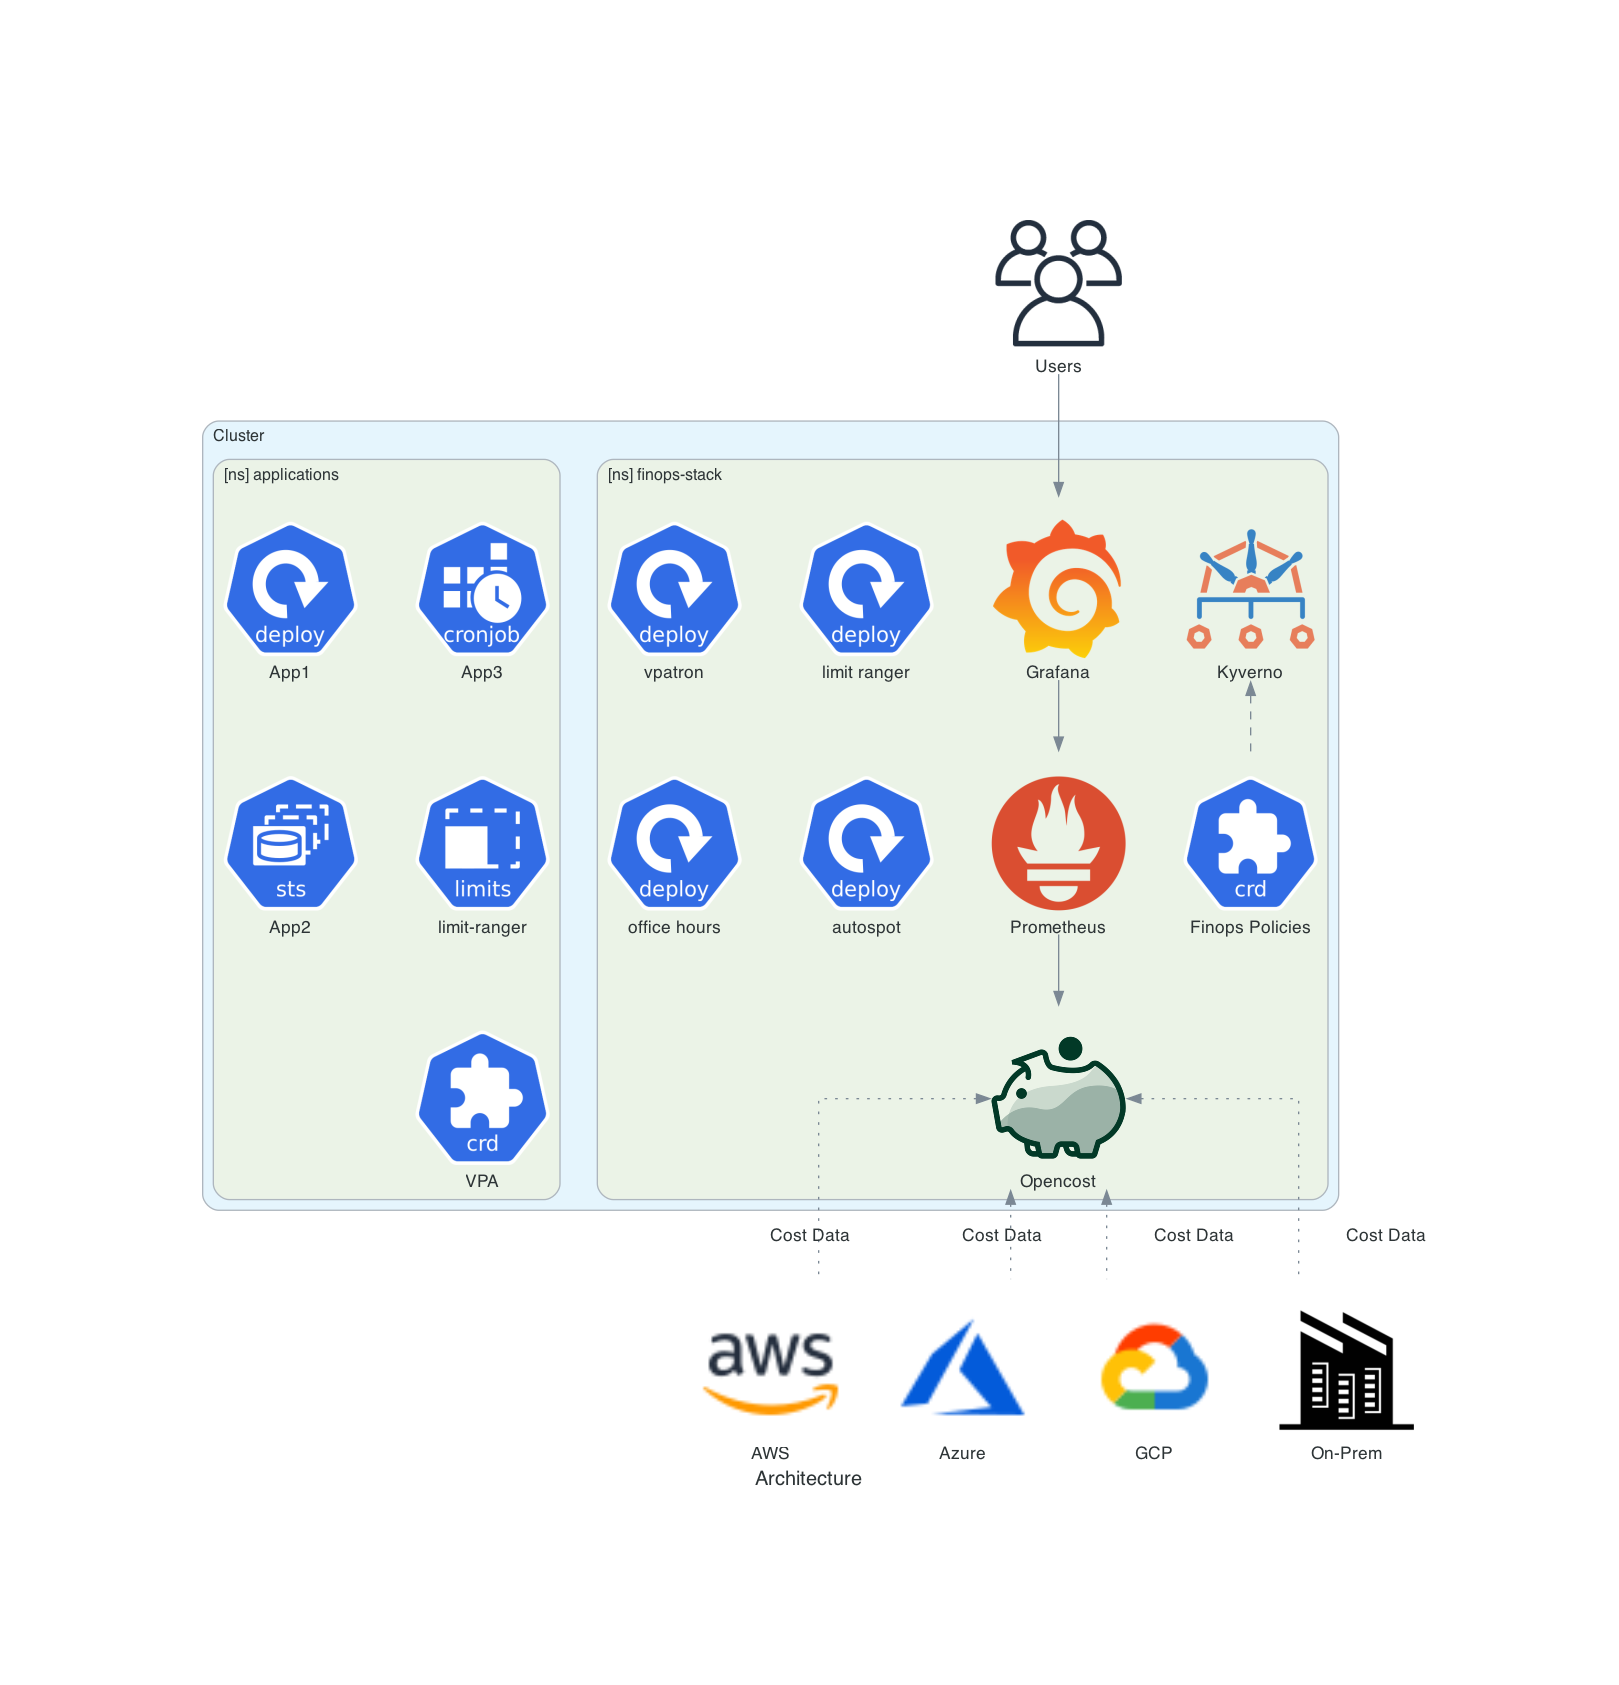
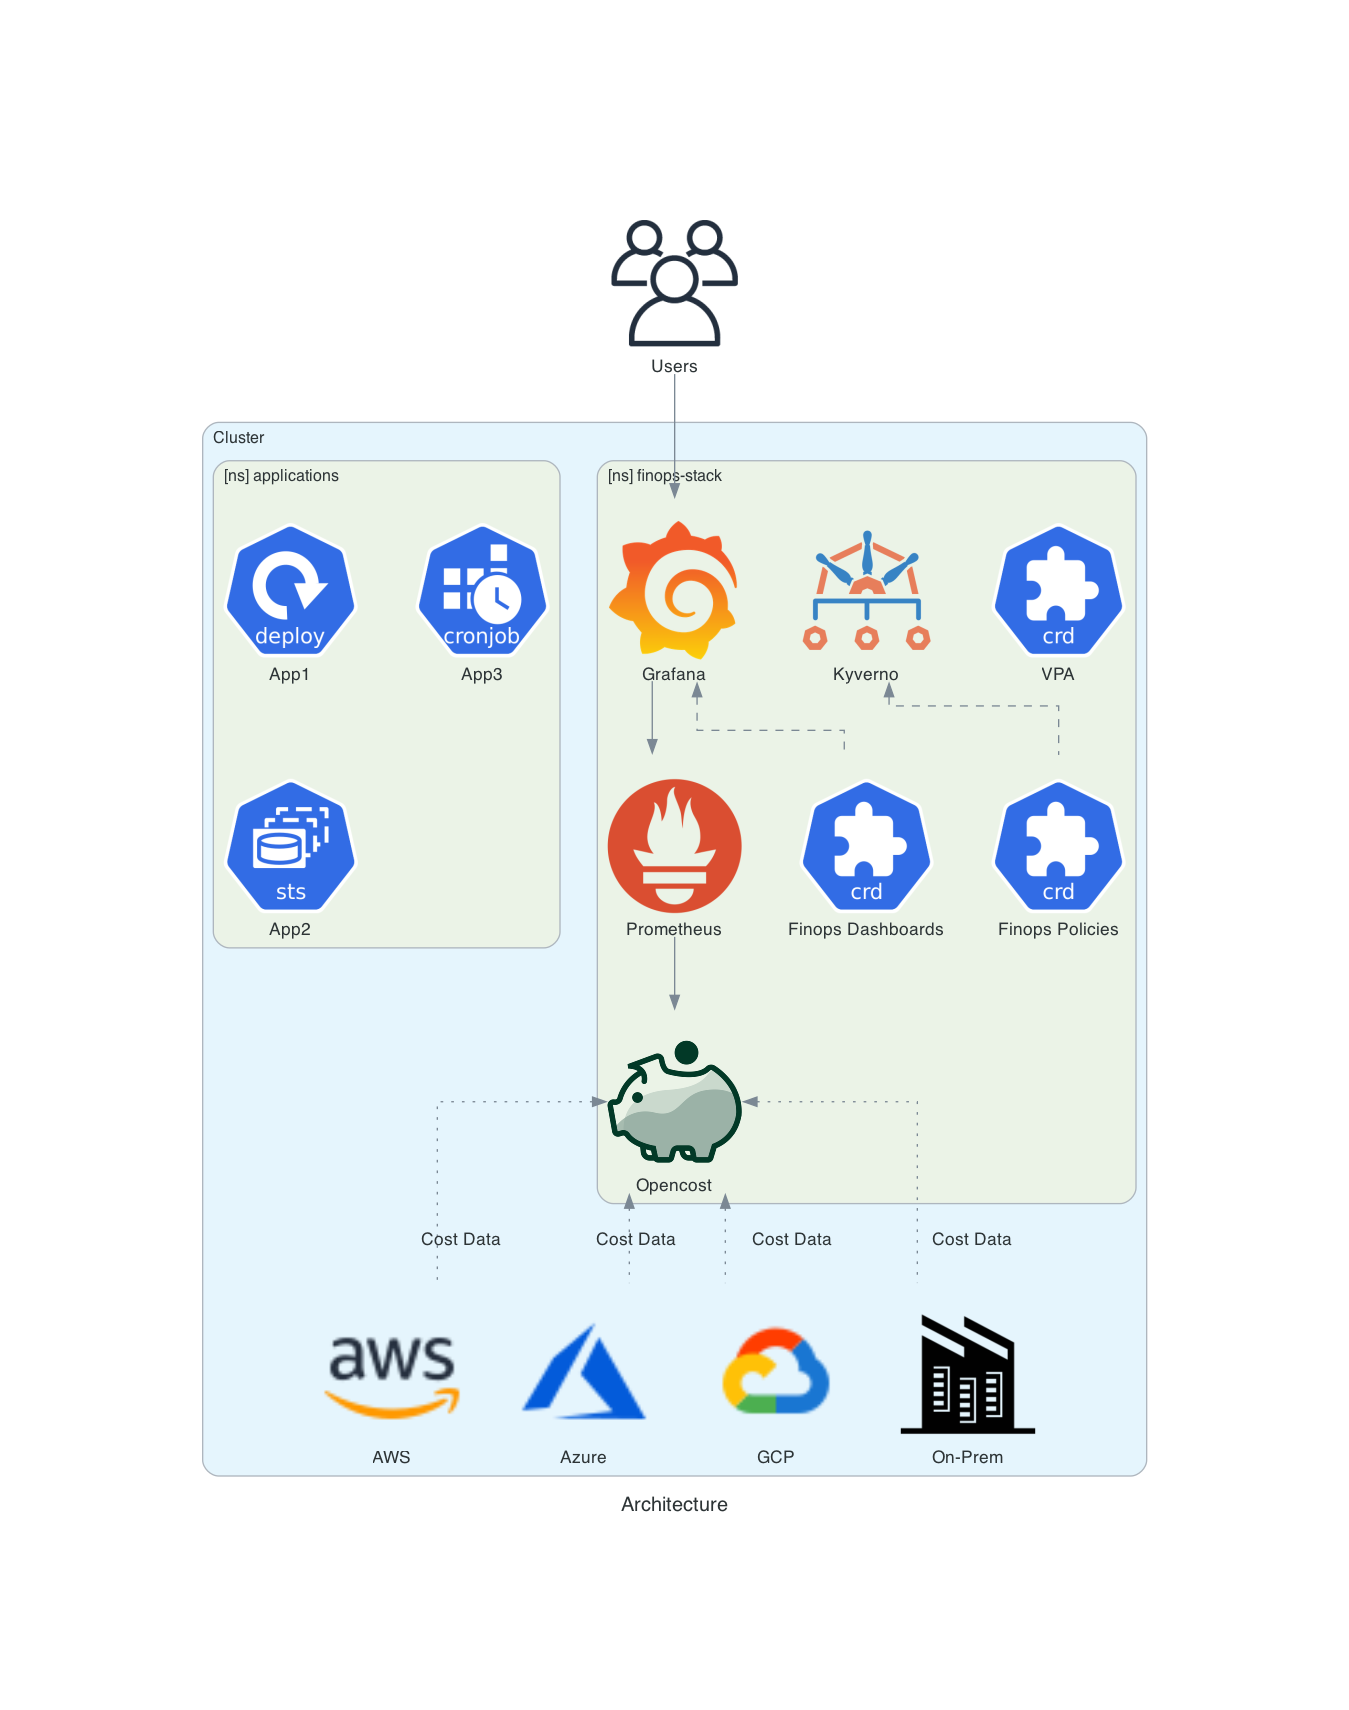
Update

Changed region(s): [[0.1245, 0.2469, 0.8718, 0.895], [0.4359, 0.1234, 0.5604, 0.216], [0.6227, 0.1234, 0.685, 0.216]]

diff --git a/scripts/architecture.py b/scripts/architecture.py
@@ -6,7 +6,6 @@ from diagrams.onprem.client import Users
 from diagrams.custom import Custom
 
 from diagrams.k8s.compute import Deploy, StatefulSet, Cronjob
-from diagrams.k8s.clusterconfig import LimitRange
 from diagrams.k8s.others import CRD
 from diagrams.generic.place import Datacenter
 
@@ -20,43 +19,39 @@ with Diagram("Architecture",
 
     with Cluster("Cluster"):
         with Cluster("[ns] applications"):
-          a1 = Deploy("App1")
-          a2 = StatefulSet("App2")
-          a3 = Cronjob("App3")
-          l = LimitRange("limit-ranger")
-          vpa = CRD("VPA")
-          a1-Edge(color="transparent")-a2-Edge(color="transparent")
-          a3-Edge(color="transparent")-l-Edge(color="transparent")-vpa
+            a1 = Deploy("App1")
+            a2 = StatefulSet("App2")
+            a3 = Cronjob("App3")
+            _ = a1 - Edge(color="transparent") - a2 - Edge(color="transparent")
         with Cluster("[ns] finops-stack"):
             prom = Prometheus("Prometheus")
             graf = Grafana("Grafana")
-            kyverno = Custom("Kyverno", os.getcwd()+"/resources/kyverno.png")
+            kyverno = Custom("Kyverno", os.getcwd() +
+                                "/resources/kyverno.png")
             finops_policies = CRD("Finops Policies")
             opencost = Custom("Opencost", os.getcwd() +
-                              "/resources/opencost.png")
+                                "/resources/opencost.png")
+            finops_dashboards = CRD("Finops Dashboards")
+            vpa = CRD("VPA")
 
-            vpatron = Deploy("vpatron")
-            officehours = Deploy("office hours")
-            limitranger = Deploy("limit ranger")
-            autospot = Deploy("autospot")
+            # _ = vpa - Edge(color="transparent") -
 
-            # Hack to get more in the same cluster
-            vpatron - Edge(color="transparent") - officehours
-            limitranger - Edge(color="transparent") - autospot
+        # _ = a3 - Edge(color="transparent") - vpa
 
         for i in range(0, 0):
             with Cluster(f"[ns] Application {i}"):
                 Deploy(f"Application {i}")
 
-    aws = Custom("AWS", os.getcwd()+'/resources/aws.png')
-    azure = Custom("Azure", os.getcwd()+'/resources/azure.png')
-    gcp = Custom("GCP", os.getcwd()+'/resources/google-cloud.png')
-    onprem = Datacenter("On-Prem")
+        aws = Custom("AWS", os.getcwd()+'/resources/aws.png')
+        azure = Custom("Azure", os.getcwd()+'/resources/azure.png')
+        gcp = Custom("GCP", os.getcwd()+'/resources/google-cloud.png')
+        onprem = Datacenter("On-Prem")
 
-    users >> graf
-    graf >> prom
-    kyverno << Edge(style="dashed") << finops_policies
-    prom >> opencost
+        _ = users >> graf
+        _ = graf >> prom
+        _ = graf << Edge(style="dashed") << finops_dashboards
+        _ = kyverno << Edge(style="dashed") << finops_policies
+        _ = prom >> opencost
 
-    for i in [aws, azure, gcp, onprem]:
-        opencost << Edge(label="Cost Data", style='dotted') << i
+        for i in [aws, azure, gcp, onprem]:
+            _ = opencost << Edge(label="Cost Data", style='dotted') << i

diff --git a/chart/README.md b/chart/README.md
@@ -1,6 +1,6 @@
 # finops-stack
 
-![Version: 0.0.2](https://img.shields.io/badge/Version-0.0.2-informational?style=flat-square) ![Type: application](https://img.shields.io/badge/Type-application-informational?style=flat-square) ![AppVersion: 0.0.2](https://img.shields.io/badge/AppVersion-0.0.2-informational?style=flat-square)
+![Version: v0.0.5](https://img.shields.io/badge/Version-v0.0.5-informational?style=flat-square) ![Type: application](https://img.shields.io/badge/Type-application-informational?style=flat-square) ![AppVersion: 0.0.3](https://img.shields.io/badge/AppVersion-0.0.3-informational?style=flat-square)
 
 A FinOps Stack for Kubernetes
 
@@ -8,27 +8,25 @@ A FinOps Stack for Kubernetes
 
 | Repository | Name | Version |
 |------------|------|---------|
-| file://../../autospot/chart/ | autospot | * |
-| file://../../finops-policies/chart/ | finops-policies | * |
-| file://../../limit-ranger/chart/ | limit-ranger | * |
-| file://../../office-hours/chart/ | office-hours | * |
-| file://../../vpatron/chart/ | vpatron | * |
-| https://charts.fairwinds.com/stable | vpa | * |
-| https://grafana.github.io/helm-charts | grafana | * |
-| https://kyverno.github.io/kyverno/ | kyverno | * |
+| https://charts.fairwinds.com/stable | vpa | 4.5.0 |
+| https://charts.jetstack.io | finops-dashboards | * |
+| https://charts.jetstack.io | finops-policies | * |
+| https://grafana.github.io/helm-charts | grafana | 8.4.7 |
+| https://kyverno.github.io/kyverno/ | kyverno | 3.2.6 |
+| https://opencost.github.io/opencost-helm-chart | opencost | 1.42.0 |
+| https://prometheus-community.github.io/helm-charts | prometheus-opencost-exporter | * |
 
 ## Values
 
 | Key | Type | Default | Description |
 |-----|------|---------|-------------|
-| feature.autospot | bool | `false` | Enable / Disable the AutoSpot controller |
-| feature.finops-policies | bool | `false` | Enable / Disable the installation of Kyverno FinOps Policies |
+| feature.finops-dashboards | bool | `true` | Enable / Disable the installation of Grafana FinOps Dashboards |
+| feature.finops-policies | bool | `true` | Enable / Disable the installation of Kyverno FinOps Policies |
 | feature.grafana | bool | `true` | Enable / Disable the installation of the Grafana |
 | feature.kyverno | bool | `true` | Enable / Disable the installation of Kyverno |
-| feature.limit-ranger | bool | `true` | Enable / Disable the limit-ranger controller |
-| feature.office-hours | bool | `true` | Enable / Disable the office-hours controller |
+| feature.opencost | bool | `true` | Enable / Disable the installation of OpenCost |
+| feature.opencost-exporter | bool | `true` | Enable / Disable the installation of OpenCost Exporter |
 | feature.vpa | bool | `false` | Enable / Disable the installation of the VPA Controller |
-| feature.vpatron | bool | `true` | Enable / Disable the vpatron controller |
 
 ----------------------------------------------
-Autogenerated from chart metadata using [helm-docs v1.13.1](https://github.com/norwoodj/helm-docs/releases/v1.13.1)
+Autogenerated from chart metadata using [helm-docs v1.14.2](https://github.com/norwoodj/helm-docs/releases/v1.14.2)

diff --git a/README.md b/README.md
@@ -1,0 +1,32 @@
+# FinOps Stack
+
+[Visit finops-stack.jetstack.io](https://finops-stack.jetstack.io) for the full site and comprehensive details.
+
+## Overview
+
+FinOps Stack is a comprehensive, turnkey solution designed to revolutionise financial operations (FinOps) by integrating a suite of applications into a unified platform. Our goal is to empower organisations with the tools they need to manage, visualise, and optimise their cloud resources in a fast-paced and ever-changing environment. FinOps Stack leverages advanced technologies to deliver real-time insights, enabling teams to make informed decisions swiftly and efficiently.
+
+This repository contains the core components of FinOps Stack, including:
+
+- **Static Site**: The source code for the FinOps Stack website, providing documentation, guides, and resources for users.
+- **Helm Chart** (`chart` directory): The Helm chart that deploys the FinOps Stack to your Kubernetes cluster, ensuring a smooth and scalable deployment experience.
+
+## Installation and Usage
+
+For detailed installation instructions, please visit the [FinOps Stack documentation](https://finops-stack.jetstack.io).
+
+To deploy FinOps Stack using the Helm chart, navigate to the `chart` directory and follow the instructions provided there.
+
+## Contributing
+
+We welcome contributions to FinOps Stack! If you have an idea for a new feature, an improvement, or a bug fix, please consider raising an issue first to discuss your plans. This helps avoid duplicate work and ensures your contribution aligns with the project's goals.
+
+When contributing, please follow these guidelines:
+
+1. **Raise an Issue**: Before starting work, check for existing issues. If none exist, raise a new one to discuss your idea.
+2. **Follow Templates**: Use the provided issue and pull request templates to ensure your contribution is well-documented and easy to review.
+3. **Suffix "Chart" for Chart Updates**: If your contribution involves changes to the Helm chart, please suffix the title of your issue or pull request with "Chart" to help us identify it quickly.
+
+## License
+
+This project is licensed under the Apache 2.0 License. See the [LICENSE](LICENSE) file for more details.
